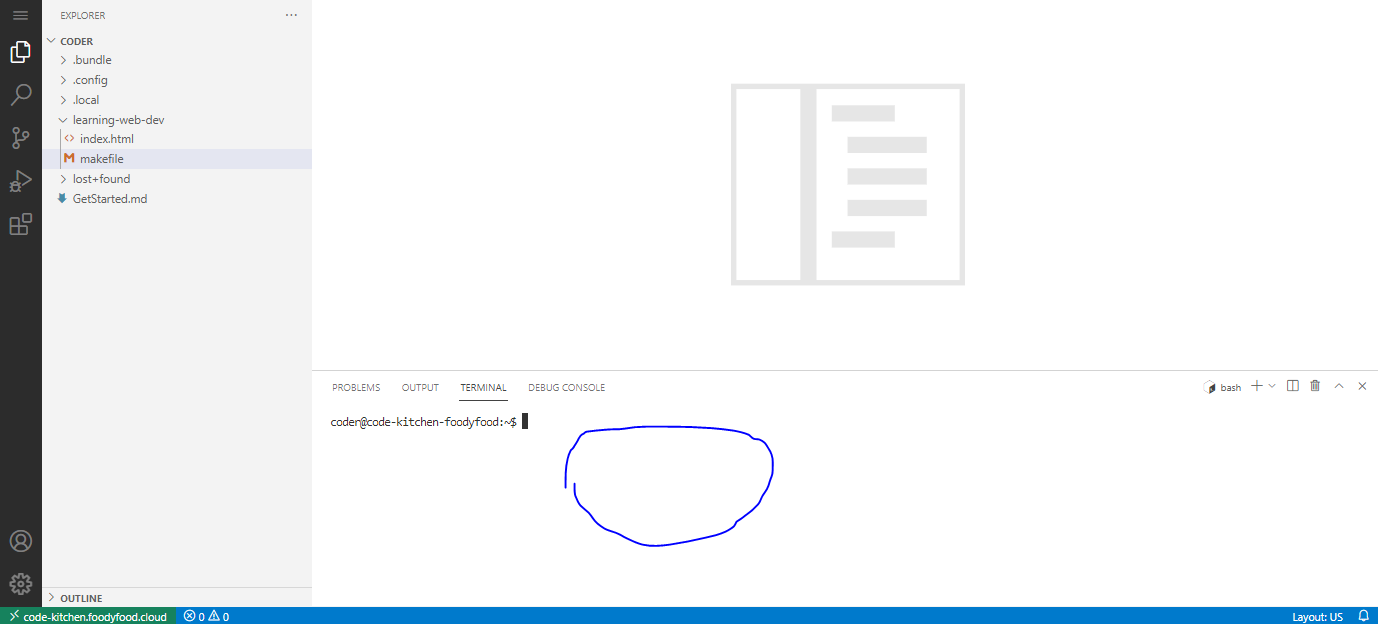
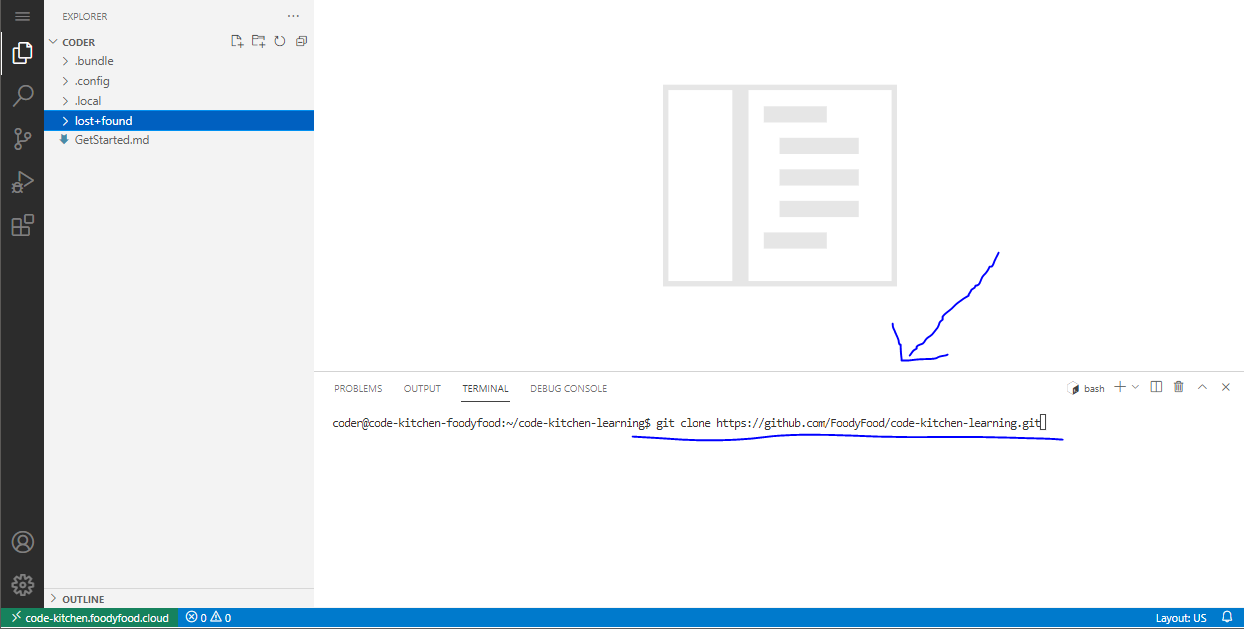
readme

diff --git a/README.md b/README.md
@@ -16,8 +16,53 @@ git clone https://github.com/FoodyFood/code-kitchen-learning.git
 ```
 Then press 'enter'.
 
-<br>
-
 You will now see the files on the left in the file browsing area.
 
 ![git-files](docs/git-files.PNG)
+
+<br>
+
+### Starting The Website
+
+To let our website be seen by the public, we need to serve the website.
+
+We need to do 2 things to get our website serving.
+
+![cd-to-repo](docs/cd-to-repo-dir.PNG)
+
+```bash
+cd code-kitchen-learning/
+```
+Then press enter.
+
+Next we type the following and press enter like before.
+
+```bash
+make website
+```
+
+Now your website should be getting served to the world.
+
+### Where can I see it
+
+In the following link, replace '/user/foodyfood' with your own username:
+https://code-kitchen.foodyfood.cloud/user/foodyfood/proxy/8000
+
+For example, here is one for the user jimbeam:
+https://code-kitchen.foodyfood.cloud/user/jimbeam/proxy/8000
+
+### Editing The Website
+
+Double click the file called 'index.html' inside the code-kitchen-learning folder on the left.
+
+In here you will see some text, try changing it, then refresh the tab you opened your link in. 
+
+Congratulations, you just made and edited a website.
+
+Try adding some more paragraphs, try googling ''how to make text bold in a html webpage'' to see how to make things bold.
+
+Try adding some pictures:
+
+<img src="https://foodyfood.cloud/images/logo.png" alt="A Yummy Cookie">
+
+And always reach out if you need help or get stuck!
